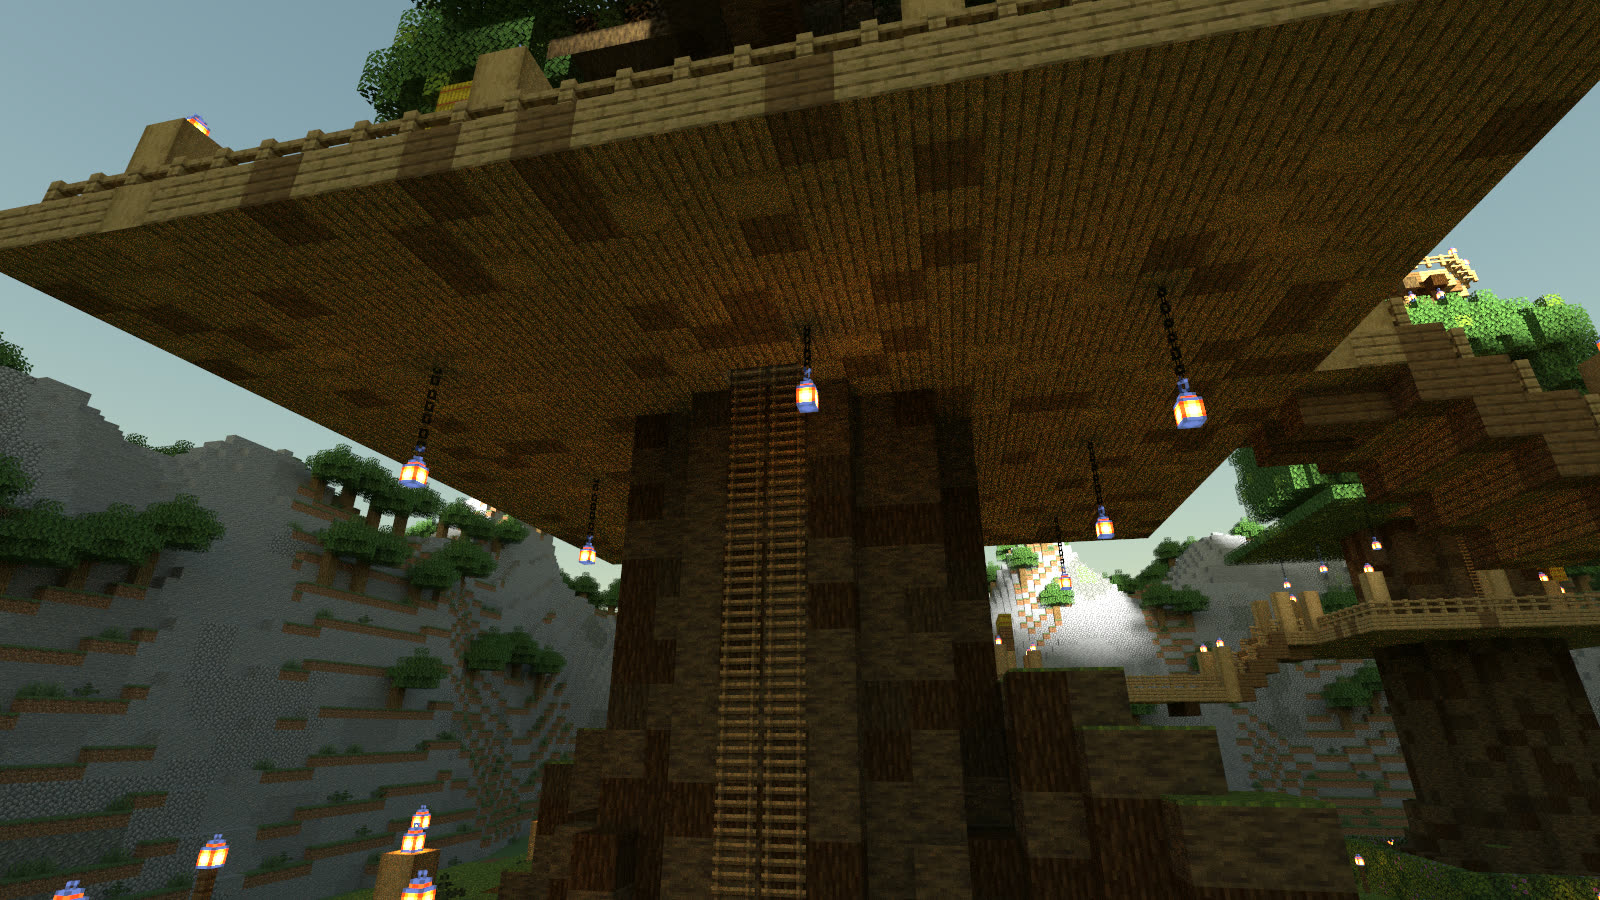
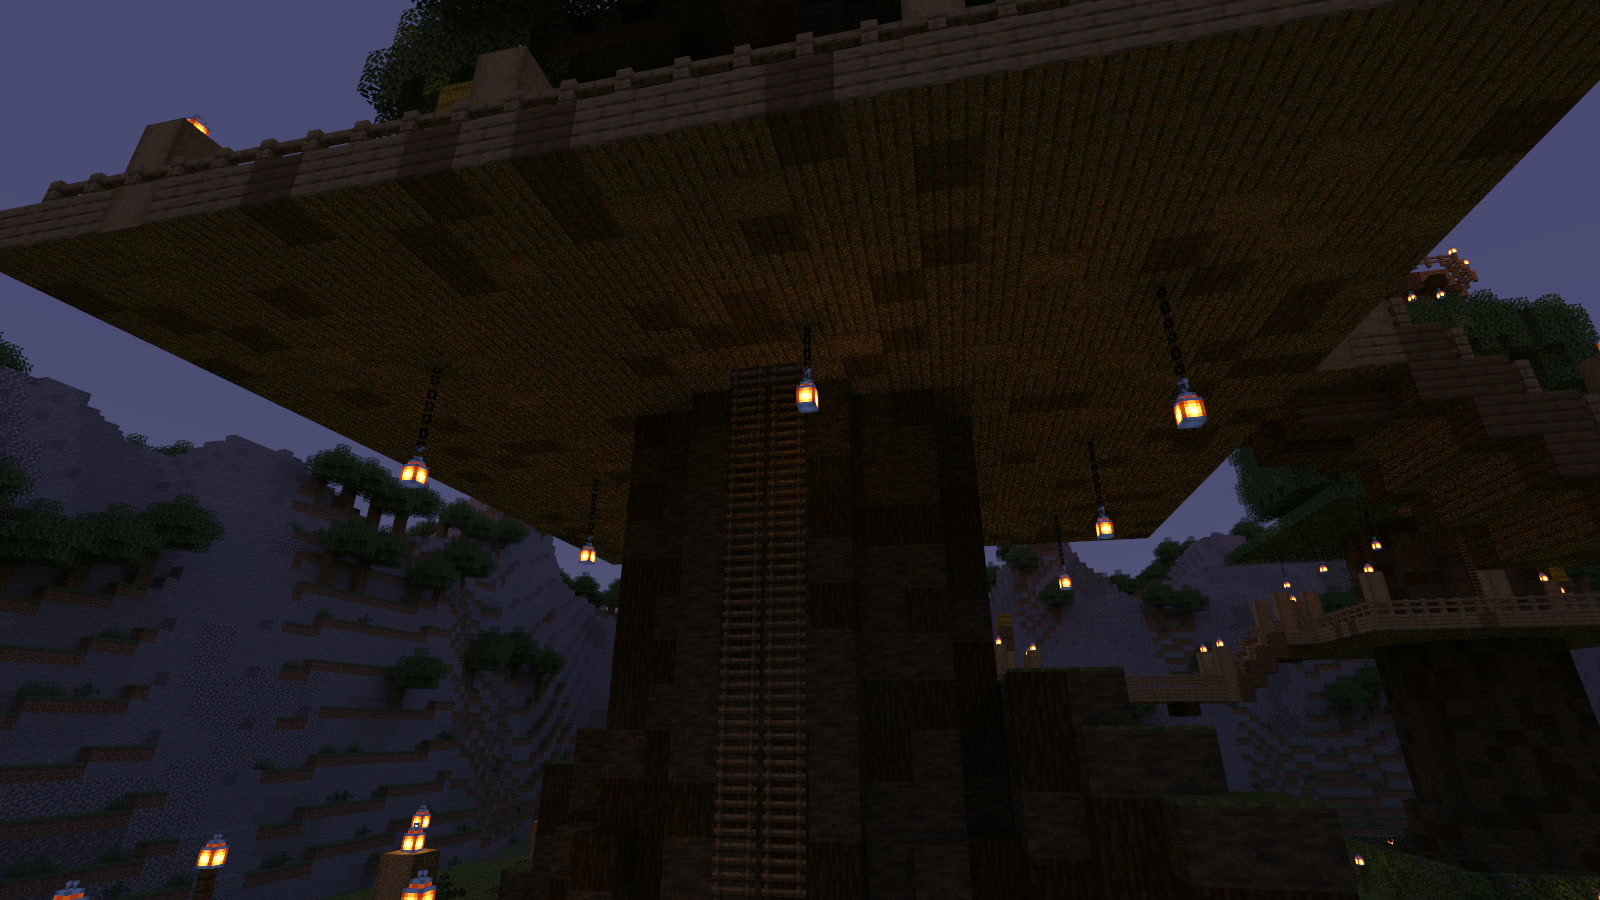
docs(media): The Treehouse Camp's twelve pictures under the game's own clear sky
The twelve pictures are re-rendered under the clear-sky look on engine
main 90c38b82d. Each scene is lit from the pinned game's timeline at its
tick and drawn under the client's own sky image, with the sunset fan on
the sun's side. The tone map is Hable at exposure 1. Every camera is
emitted at exposure 1; no exposure is hand-set. The subjects, order and
file names are unchanged.

Route. The world is built by the engine the release pins. Content
release/the-treehouse-camp/v1.0.1 (3eeb000) was built by the delvec
1.12.0 release binary (aarch64-apple-darwin archive, sha256 de4ce677...
matching the release's SHA256SUMS), with --prefabs from that tree's own
prefabs/. The twelve showcase cameras were added to a scratch copy of the
campaign's camera record. Engine 90c38b82d refuses dsl 0.38.0 documents
(DW0102), so its `delvec cameras` read a second scratch copy with
`dsl_version` set to 0.39.0 in 13 documents (asserted count). It ran
against the pinned build's directory with no rebuild. Both engines'
`delvec cameras` wrote the scene worlds (at-load and
after-obj-hang-the-lantern). All 10 files are byte-identical: sha256 per
file is equal, and so is the concatenated stream. World digests as
printed: at-load f6d66779..., after-obj-hang-the-lantern 27a87750....

Re-aimed: the whole-map picture only. showcase-shots.md section 2.5 now
says a picture that should say sunset looks toward the sun. The old hero
looked north-north-east, away from the sun, which is due west at this
[…]

diff --git a/docs/media/README.md b/docs/media/README.md
@@ -12,7 +12,7 @@ A souls-like castle for one to four hired blades, about an hour long. The bell o
 
 ## [The Treehouse Camp](the-treehouse-camp/README.md)
 
-[![The Treehouse Camp: four giant trees with houses round their trunks and rope bridges between them, seen from high in the south-west at sunset](the-treehouse-camp/01-hero-whole-map-south-southwest.jpg)](the-treehouse-camp/README.md)
+[![The Treehouse Camp: four giant trees with houses round their trunks and rope bridges between them, seen from high in the east-north-east, looking toward the setting sun](the-treehouse-camp/01-hero-whole-map-south-southwest.jpg)](the-treehouse-camp/README.md)
 
 A gentle walk and climb for one to four guests, under half an hour, with nothing hostile in it. A forest clan lives in houses built round four giant trees, joined by rope bridges and rope ladders; on Lantern Night you fetch a lantern and its oil from two houses, carry it up the tallest tree, and watch the whole camp light up below you.
 

diff --git a/docs/media/README.zh-CN.md b/docs/media/README.zh-CN.md
@@ -12,7 +12,7 @@
 
 ## [树屋营地（The Treehouse Camp）](the-treehouse-camp/README.md)
 
-[![树屋营地：夕阳下从西南偏南的高处望去，四棵巨树的树干上各绕着一座屋子，屋与屋之间拉着绳桥](the-treehouse-camp/01-hero-whole-map-south-southwest.jpg)](the-treehouse-camp/README.md)
+[![树屋营地：从东北偏东的高处朝着落日望去，四棵巨树的树干上各绕着一座屋子，屋与屋之间拉着绳桥](the-treehouse-camp/01-hero-whole-map-south-southwest.jpg)](the-treehouse-camp/README.md)
 
 一场轻松的漫步加攀爬，一到四位客人，不到半小时，没有任何敌意。一个森林部族把家安在四棵巨树上，靠绳桥和绳梯来往；灯笼夜里，你们从两户人家那里分别取来灯笼和灯油，把它带上最高的那棵树，然后看着整个营地在脚下一盏盏亮起来。
 

diff --git a/docs/media/the-treehouse-camp/README.md b/docs/media/the-treehouse-camp/README.md
@@ -4,7 +4,7 @@ Renders of **The Treehouse Camp**, a delve built with Delvewright: a forest clan
 
 ![The whole camp](01-hero-whole-map-south-southwest.jpg)
 
-The camp from high in the south-south-west at sunset: the Seed Tree in front, the Hearth Tree on the left, the Loom House on its cut-off trunk behind, and the Watch Tree on the right, its lookout above every other crown.
+The camp from high in the east-north-east, looking toward the setting sun: the Loom House on its cut-off trunk in front, the Watch Tree on the left, its lookout above every other crown, the Hearth Tree behind on the right, and the Seed Tree between them at the back.
 
 ![The Root Glade](02-root-glade.jpg)
 
